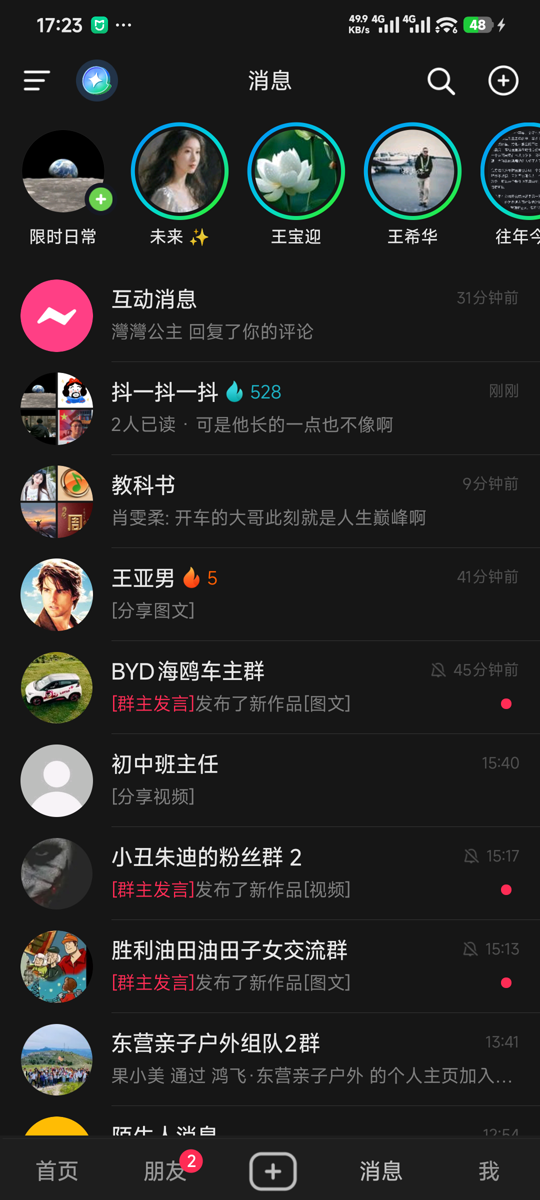
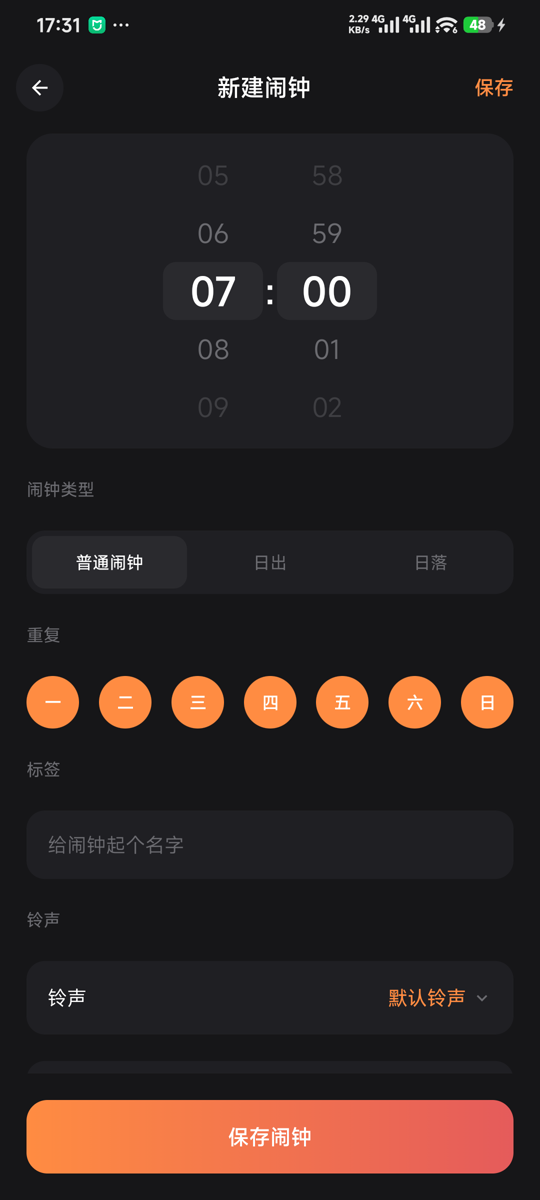
README 配图换成真实应用截图：原来那四张是误采的聊天界面，已删除设置与英文两张（无真图）

diff --git a/README.md b/README.md
@@ -9,9 +9,9 @@
 
 两个平台的包名同为 `com.sunrise.alarm`，界面、文案、颜色、版本号都对齐。
 
-| 首页 | 新建闹钟 | 设置 | English |
-|:---:|:---:|:---:|:---:|
-| ![首页](docs/screenshots/home-dark.png) | ![新建闹钟](docs/screenshots/add-alarm.png) | ![设置](docs/screenshots/settings.png) | ![English](docs/screenshots/home-en.png) |
+| 首页 | 新建闹钟（循环滚轮选时） |
+|:---:|:---:|
+| ![首页](docs/screenshots/home-dark.png) | ![新建闹钟](docs/screenshots/add-alarm.png) |
 
 以下为 **Android 版**文档。
 
